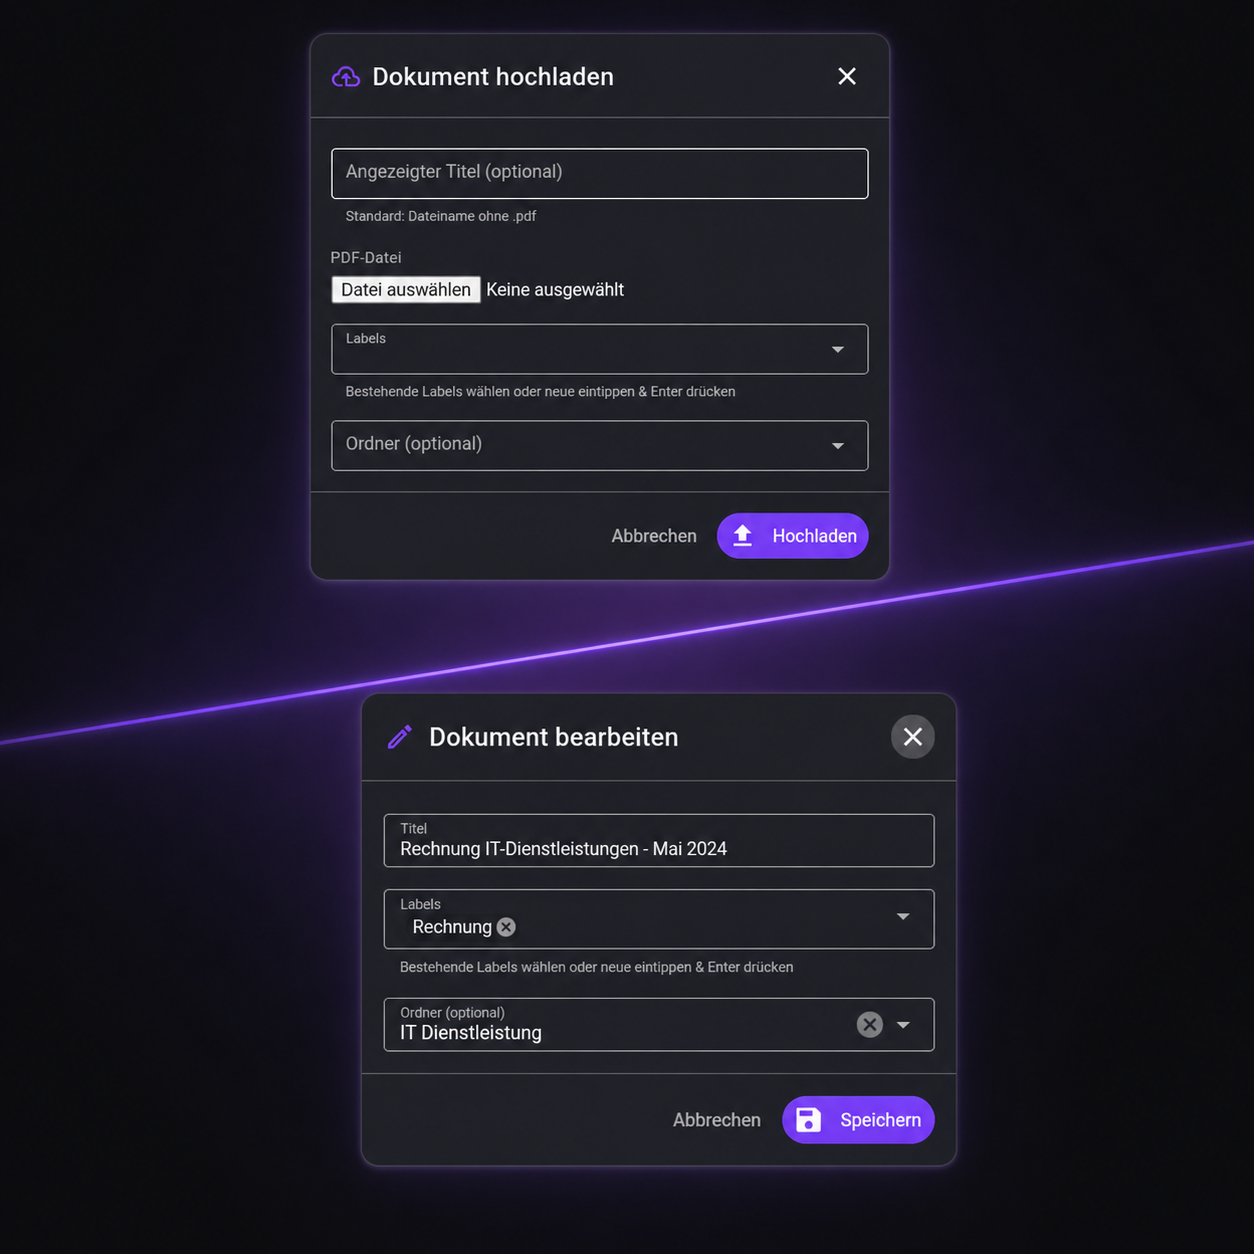
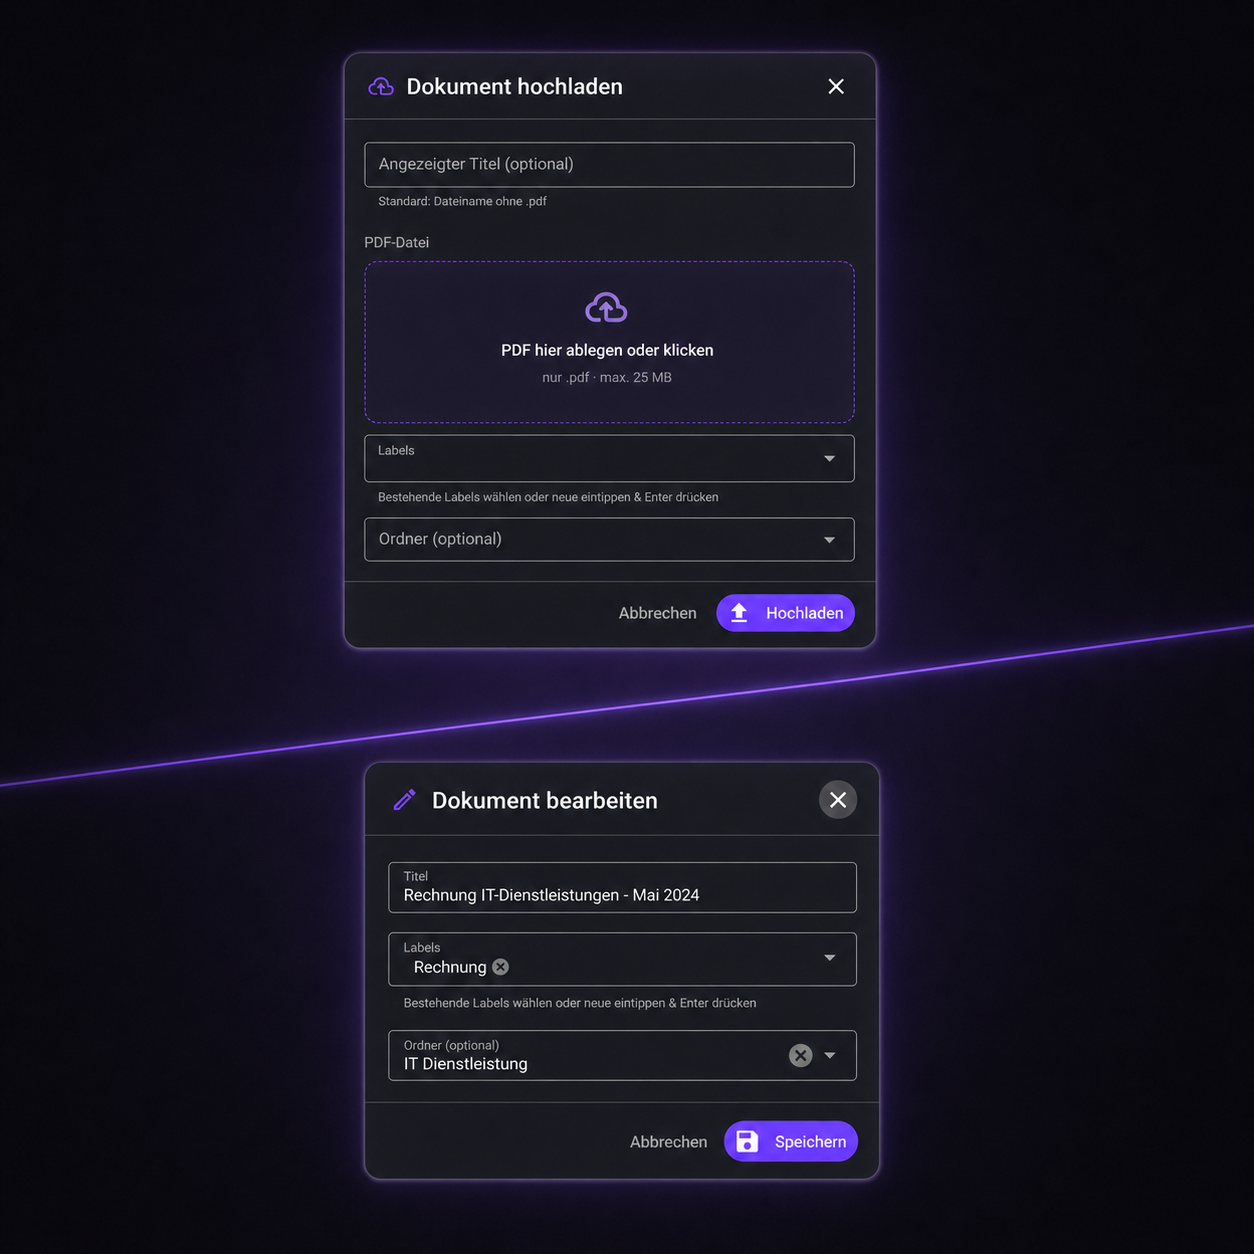
UI-Polish: Lila-Suchfeld + Drag&Drop-Upload-Zone
Suchfeld in der Topbar bekommt jetzt durchgaengig die Brand-Farbe:
- Lila-Tint im Idle-State, kraeftiger im Hover/Focus
- Focus-Ring (3px Lila-Glow) statt nur Border-Wechsel
- Search-Icon wechselt im Focus auf Vollton-Lila
- Clear-Icon ebenfalls in Lila-Akzent

Upload-Dialog ersetzt den nackten Browser-File-Input durch eine
echte Drag&Drop-Zone:
- Gestrichelter Lila-Border, Cloud-Upload-Icon, klare CTA
- Hover/Drag-Over verstaerken Border + Glow + Subtle-Scale
- Drop oder Klick uebernimmt die Datei in selectedFile-State
- Im Filled-State: gruene Solid-Border + Haekchen-Icon + Dateiname
  + Groessen-Anzeige (formatBytes) + Clear-Button (X)
- Validierung: nur application/pdf bzw. *.pdf, max. 25 MB,
  bei Fehlern q-notify-Warning
- dragDepth-Counter verhindert Flicker durch Kindelement-Events

Changed region(s): [[0.0, 0.0, 1.0, 0.9641], [0.4976, 0.0, 0.622, 0.0311]]

diff --git a/dms-frontend/src/components/dms/UploadDialog.vue b/dms-frontend/src/components/dms/UploadDialog.vue
@@ -22,8 +22,56 @@
 
         <div>
           <div class="text-caption text-grey-5 q-mb-xs">PDF-Datei</div>
-          <div class="file-picker">
-            <input ref="fileInput" type="file" accept="application/pdf" />
+
+          <!-- Hidden Native-Input wird vom Drop-Zone-Klick getriggert -->
+          <input
+            ref="fileInput"
+            type="file"
+            accept="application/pdf"
+            class="hidden-input"
+            @change="onInputChange"
+          />
+
+          <!-- Drag&Drop-Zone: Klick oeffnet Dateidialog, Drop befuellt das File -->
+          <div
+            class="drop-zone"
+            :class="{
+              'drop-zone--active': isDragging,
+              'drop-zone--filled': !!selectedFile,
+            }"
+            @click="fileInput?.click()"
+            @dragenter.prevent="onDragEnter"
+            @dragover.prevent="onDragOver"
+            @dragleave.prevent="onDragLeave"
+            @drop.prevent="onDrop"
+          >
+            <template v-if="selectedFile">
+              <q-icon name="mdi-file-check-outline" size="42px" class="text-positive" />
+              <div class="drop-zone__filename">{{ selectedFile.name }}</div>
+              <div class="drop-zone__hint">{{ formatBytes(selectedFile.size) }} · klicken zum Tauschen</div>
+              <q-btn
+                flat
+                dense
+                round
+                size="sm"
+                icon="mdi-close"
+                class="drop-zone__clear"
+                @click.stop="clearFile"
+              >
+                <q-tooltip>Auswahl entfernen</q-tooltip>
+              </q-btn>
+            </template>
+            <template v-else>
+              <q-icon
+                :name="isDragging ? 'mdi-tray-arrow-down' : 'mdi-cloud-upload-outline'"
+                size="42px"
+                class="drop-zone__icon"
+              />
+              <div class="drop-zone__title">
+                {{ isDragging ? 'Hier loslassen' : 'PDF hier ablegen oder klicken' }}
+              </div>
+              <div class="drop-zone__hint">nur .pdf · max. 25 MB</div>
+            </template>
           </div>
         </div>
 
@@ -104,6 +152,75 @@ const fileInput = ref(null)
 const uploading = ref(false)
 const displayName = ref('')
 
+// Aktuell gewaehlte Datei (entweder via Klick-Picker oder per Drop gesetzt)
+const selectedFile = ref(null)
+const isDragging = ref(false)
+// Counter, weil dragenter/leave auch fuer Kindelemente feuert -
+// nur wenn alle Levels verlassen sind, ist die Zone wirklich verlassen.
+let dragDepth = 0
+
+const MAX_BYTES = 25 * 1024 * 1024
+
+function isPdf(file) {
+  if (!file) return false
+  return file.type === 'application/pdf' || /\.pdf$/i.test(file.name)
+}
+
+function setFile(file) {
+  if (!file) return
+  if (!isPdf(file)) {
+    $q.notify({ type: 'warning', message: 'Nur PDF-Dateien sind erlaubt' })
+    return
+  }
+  if (file.size > MAX_BYTES) {
+    $q.notify({ type: 'warning', message: 'Datei zu gross (max. 25 MB)' })
+    return
+  }
+  selectedFile.value = file
+}
+
+function onInputChange(e) {
+  const file = e.target?.files?.[0]
+  if (file) setFile(file)
+}
+
+function onDragEnter() {
+  dragDepth += 1
+  isDragging.value = true
+}
+function onDragOver() {
+  // prevent reicht via .prevent-Modifier; wir muessen aber sicherstellen,
+  // dass isDragging waehrend des Drags wahr bleibt.
+  isDragging.value = true
+}
+function onDragLeave() {
+  dragDepth = Math.max(0, dragDepth - 1)
+  if (dragDepth === 0) isDragging.value = false
+}
+function onDrop(e) {
+  dragDepth = 0
+  isDragging.value = false
+  const file = e.dataTransfer?.files?.[0]
+  if (file) setFile(file)
+}
+
+function clearFile() {
+  selectedFile.value = null
+  if (fileInput.value) fileInput.value.value = ''
+}
+
+function formatBytes(bytes) {
+  if (!bytes && bytes !== 0) return ''
+  const units = ['B', 'KB', 'MB', 'GB']
+  let i = 0
+  let n = bytes
+  while (n >= 1024 && i < units.length - 1) {
+    n /= 1024
+    i += 1
+  }
+  return `${n.toFixed(n >= 10 || i === 0 ? 0 : 1)} ${units[i]}`
+}
+
 // Label-Auswahlzustände
 const selectedLabels = ref([]) // aktuelle Auswahl des Users
 const allLabels = ref([]) // vollständige Liste aller Label-Namen
@@ -165,6 +282,7 @@ function resetForm() {
   displayName.value = ''
   selectedLabels.value = []
   selectedFolder.value = null
+  selectedFile.value = null
   if (fileInput.value) {
     fileInput.value.value = ''
   }
@@ -216,14 +334,12 @@ function filterFn(val, update) {
 }
 
 async function upload() {
-  if (!fileInput.value || !fileInput.value.files?.length) {
+  if (!selectedFile.value) {
     $q.notify({ type: 'warning', message: 'Bitte eine PDF-Datei wählen' })
     return
   }
 
-  console.log('selectedLabels vor Upload:', selectedLabels.value)
-
-  const file = fileInput.value.files[0]
+  const file = selectedFile.value
   const formData = new FormData()
   formData.append('file', file)
 
@@ -261,3 +377,86 @@ async function upload() {
   }
 }
 </script>
+
+<style scoped>
+.hidden-input {
+  position: absolute;
+  width: 1px;
+  height: 1px;
+  opacity: 0;
+  pointer-events: none;
+}
+
+.drop-zone {
+  position: relative;
+  display: flex;
+  flex-direction: column;
+  align-items: center;
+  justify-content: center;
+  gap: 6px;
+  padding: 28px 20px;
+  border-radius: 12px;
+  border: 1.5px dashed rgba(124, 58, 237, 0.45);
+  background: rgba(124, 58, 237, 0.04);
+  color: var(--epic-text-primary);
+  cursor: pointer;
+  text-align: center;
+  transition:
+    border-color 0.18s ease,
+    background 0.18s ease,
+    box-shadow 0.18s ease,
+    transform 0.18s ease;
+}
+.drop-zone:hover {
+  border-color: rgba(124, 58, 237, 0.7);
+  background: rgba(124, 58, 237, 0.08);
+}
+.drop-zone--active {
+  border-color: var(--q-primary);
+  background: rgba(124, 58, 237, 0.16);
+  box-shadow: 0 0 0 3px rgba(124, 58, 237, 0.22);
+  transform: scale(1.01);
+}
+.drop-zone--filled {
+  border-style: solid;
+  border-color: rgba(16, 185, 129, 0.55);
+  background: rgba(16, 185, 129, 0.06);
+}
+.drop-zone--filled:hover {
+  border-color: rgba(16, 185, 129, 0.8);
+  background: rgba(16, 185, 129, 0.1);
+}
+
+.drop-zone__icon {
+  color: rgba(167, 139, 250, 0.85);
+}
+.drop-zone--active .drop-zone__icon {
+  color: var(--q-primary);
+}
+
+.drop-zone__title {
+  font-size: 14px;
+  font-weight: 500;
+}
+.drop-zone__hint {
+  font-size: 12px;
+  color: var(--epic-text-muted);
+}
+.drop-zone__filename {
+  font-size: 14px;
+  font-weight: 500;
+  max-width: 100%;
+  overflow: hidden;
+  text-overflow: ellipsis;
+  white-space: nowrap;
+}
+.drop-zone__clear {
+  position: absolute;
+  top: 6px;
+  right: 6px;
+  color: var(--epic-text-muted);
+}
+.drop-zone__clear:hover {
+  color: var(--q-negative);
+}
+</style>

diff --git a/dms-frontend/src/layouts/MainLayout.vue b/dms-frontend/src/layouts/MainLayout.vue
@@ -25,13 +25,13 @@
           style="max-width: 460px; flex: 1"
         >
           <template #prepend>
-            <q-icon name="search" class="text-grey-5" />
+            <q-icon name="search" class="epic-search-icon" />
           </template>
           <template #append>
             <q-icon
               v-if="search"
               name="clear"
-              class="cursor-pointer text-grey-5"
+              class="cursor-pointer epic-search-clear"
               @click="search = ''"
             />
           </template>
@@ -149,19 +149,24 @@ const userInitials = computed(() => {
 }
 
 .epic-search :deep(.q-field__control) {
-  background: rgba(255, 255, 255, 0.06);
-  border: 1px solid var(--epic-border);
+  background: rgba(124, 58, 237, 0.06);
+  border: 1px solid rgba(124, 58, 237, 0.25);
   border-radius: 999px;
   padding: 0 16px;
   height: 40px;
-  transition: border-color 0.15s ease, background 0.15s ease;
+  transition:
+    border-color 0.18s ease,
+    background 0.18s ease,
+    box-shadow 0.18s ease;
 }
 .epic-search :deep(.q-field__control:hover) {
-  background: rgba(255, 255, 255, 0.08);
+  background: rgba(124, 58, 237, 0.1);
+  border-color: rgba(124, 58, 237, 0.45);
 }
 .epic-search :deep(.q-field--focused .q-field__control) {
-  background: rgba(255, 255, 255, 0.08);
-  border-color: rgba(124, 58, 237, 0.5);
+  background: rgba(124, 58, 237, 0.12);
+  border-color: rgba(124, 58, 237, 0.7);
+  box-shadow: 0 0 0 3px rgba(124, 58, 237, 0.18);
 }
 .epic-search :deep(.q-field__native) {
   color: var(--epic-text-primary);
@@ -169,6 +174,21 @@ const userInitials = computed(() => {
 }
 .epic-search :deep(.q-field__native::placeholder) {
   color: var(--epic-text-muted);
+}
+
+.epic-search-icon {
+  color: rgba(167, 139, 250, 0.75);
+  transition: color 0.18s ease;
+}
+.epic-search :deep(.q-field--focused) .epic-search-icon {
+  color: var(--q-primary);
+}
+.epic-search-clear {
+  color: rgba(167, 139, 250, 0.65);
+  transition: color 0.15s ease;
+}
+.epic-search-clear:hover {
+  color: var(--q-primary);
 }
 
 .epic-upload-btn {